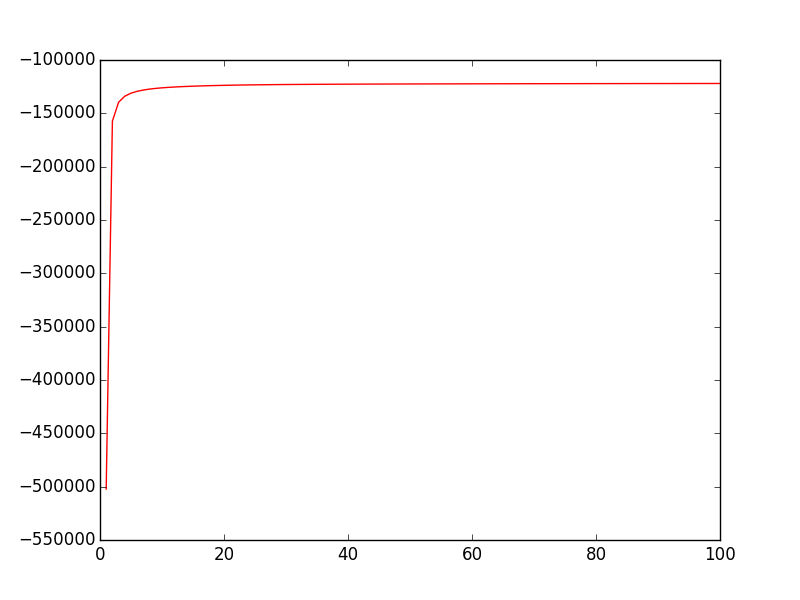
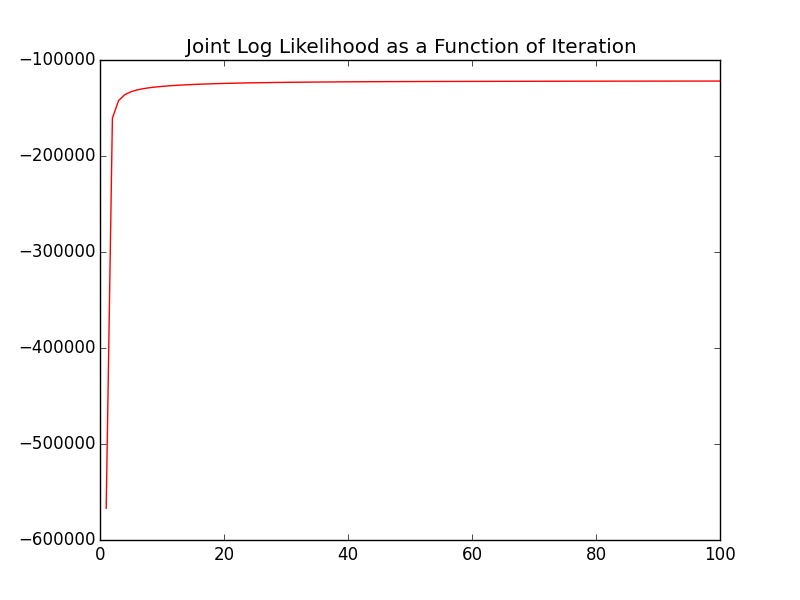
HW4 - a bunch of updates

diff --git a/hw4.py b/hw4.py
@@ -161,7 +161,7 @@ def matrix_factorize(iteration=100):
 
         rmse_list += [get_rmse(pred_at_iter, m_test, train_movieids, train_userids)]
 
-    fc_idx = np.random.random_integers(0, 30, 5).tolist()
+
 
     closest_movies(movies_list, v)
     centroids, clusters = kmeans_movies(u)
@@ -169,28 +169,30 @@ def matrix_factorize(iteration=100):
     km_sklrn.fit(u)
     sklrn_cen = km_sklrn.cluster_centers_
     sklrn_clust = km_sklrn.labels_
-    five_topten = movie_user_characterize(centroids[fc_idx], clusters, v)
-    sklrn_five_tt = movie_user_characterize(sklrn_cen[fc_idx], sklrn_clust, v)
+    # five_topten = movie_user_characterize(centroids, clusters, v)
+    sklrn_five_tt, sklrn_five_dist = movie_user_characterize(sklrn_cen, sklrn_clust, v)
 
-    for l in range(len(five_topten)):
-        print 'For the ', str(l), 'the cluster, we have the following 10 movies with the largest dot product'
-        for m in five_topten[l]:
-            print '|--> ', movies_list[m]
+    # for l in range(len(five_topten)):
+    #     print 'For the ', str(l), 'the cluster, we have the following 10 movies with the largest dot product'
+    #     for m in five_topten[l]:
+    #         print '|--> ', movies_list[m]
 
     for l in range(len(sklrn_five_tt)):
         print 'For the ', str(l), 'sklearn'
-        for m in sklrn_five_tt[l]:
-            print '<>-> ', movies_list[m]
+        for m in range(len(sklrn_five_tt[l])):
+            print '<>-> ', movies_list[sklrn_five_tt[l][m]], "\t", str(sklrn_five_dist[l][m])
 
     # get a copy of the prediction and set the cells in the copy that original matrix's nan/0 cells to 0
     # pr_sparse = np.round(pr_sparse, 1)
     # for urow_idx in range(mmx.shape[0]):
     # idx = np.where(mmx[urow_idx, :] == 0)[0]
     # pr_sparse[urow_idx, idx] = np.tile(0, pr_sparse[urow_idx, idx].shape)
-    plt.plot(range(1, iteration + 1), np.array(rmse_list), '#3288bd', label="RMSE by Iteration")
+    plt.plot(range(1, iteration + 1), np.array(rmse_list), '#3288bd')
+    plt.title("RMSE of Predictions by Iteration")
     plt.savefig('./out/mxf_rmse.png')
     plt.close()
-    plt.plot(range(1, iteration + 1), objlist, c='r', label="Log Likelihood by Iteration")
+    plt.plot(range(1, iteration + 1), objlist, c='r')
+    plt.title("Joint Log Likelihood as a Function of Iteration")
     plt.savefig('./out/mxf_obj_plt.png')
 
     # indices of pred_at_iter that are rounded to zero. To be set to 1
@@ -223,17 +225,14 @@ def get_rmse(preds, test_data, train_movie_ids, train_user_ids):
 
 def closest_movies(movies_list, v, n=5):
     # three_movies = np.random.choice(v.shape[0], 3, replace=False).tolist()
-    three_movies = [1617, 1015, 28]
+    three_movies = [0, 1617, 1015, 28]
     for i in three_movies:
         dist = []
         five_movies = []
         for j in range(v.shape[0]):
-            if j != i:
                 dist += [np.linalg.norm(v[i] - v[j]) ** 2]
-            else:
-                continue
 
-        top_distances = sorted(dist)[0:5]
+        top_distances = sorted(dist)[0:10]
 
         for a in top_distances:
 
@@ -299,8 +298,9 @@ def kmeans_movies(udata, bigK=30, iteration=20):
 
 def movie_user_characterize(centroids, clusters, vmovies):
 
-    dp = np.dot(vmovies, centroids.T)
+    dp = np.array(np.dot(vmovies, centroids.T))
     topten = []
+    dist_tt = []
 
     # for center in range(centroids.shape[0]):
     #     centroids[center] * vmovies.T
@@ -309,16 +309,19 @@ def movie_user_characterize(centroids, clusters, vmovies):
         # copying the column of centroid col
         mlst = dp[:, col].tolist()
         tt = []
+        dtt = []
         for r in range(10):
             idx = np.argmax(mlst)
+            dtt += [mlst[idx]]
             mlst[idx] = -1
             tt += [idx]
 
         topten.append(tt)
+        dist_tt.append(dtt)
 
-    return topten
+    return topten, dist_tt
 
 if __name__ == '__main__':
-    c, m = kmeans_clustering(5)
-    # matrix_factorize(100)
+    # c, m = kmeans_clustering(5)
+    matrix_factorize(100)
 
